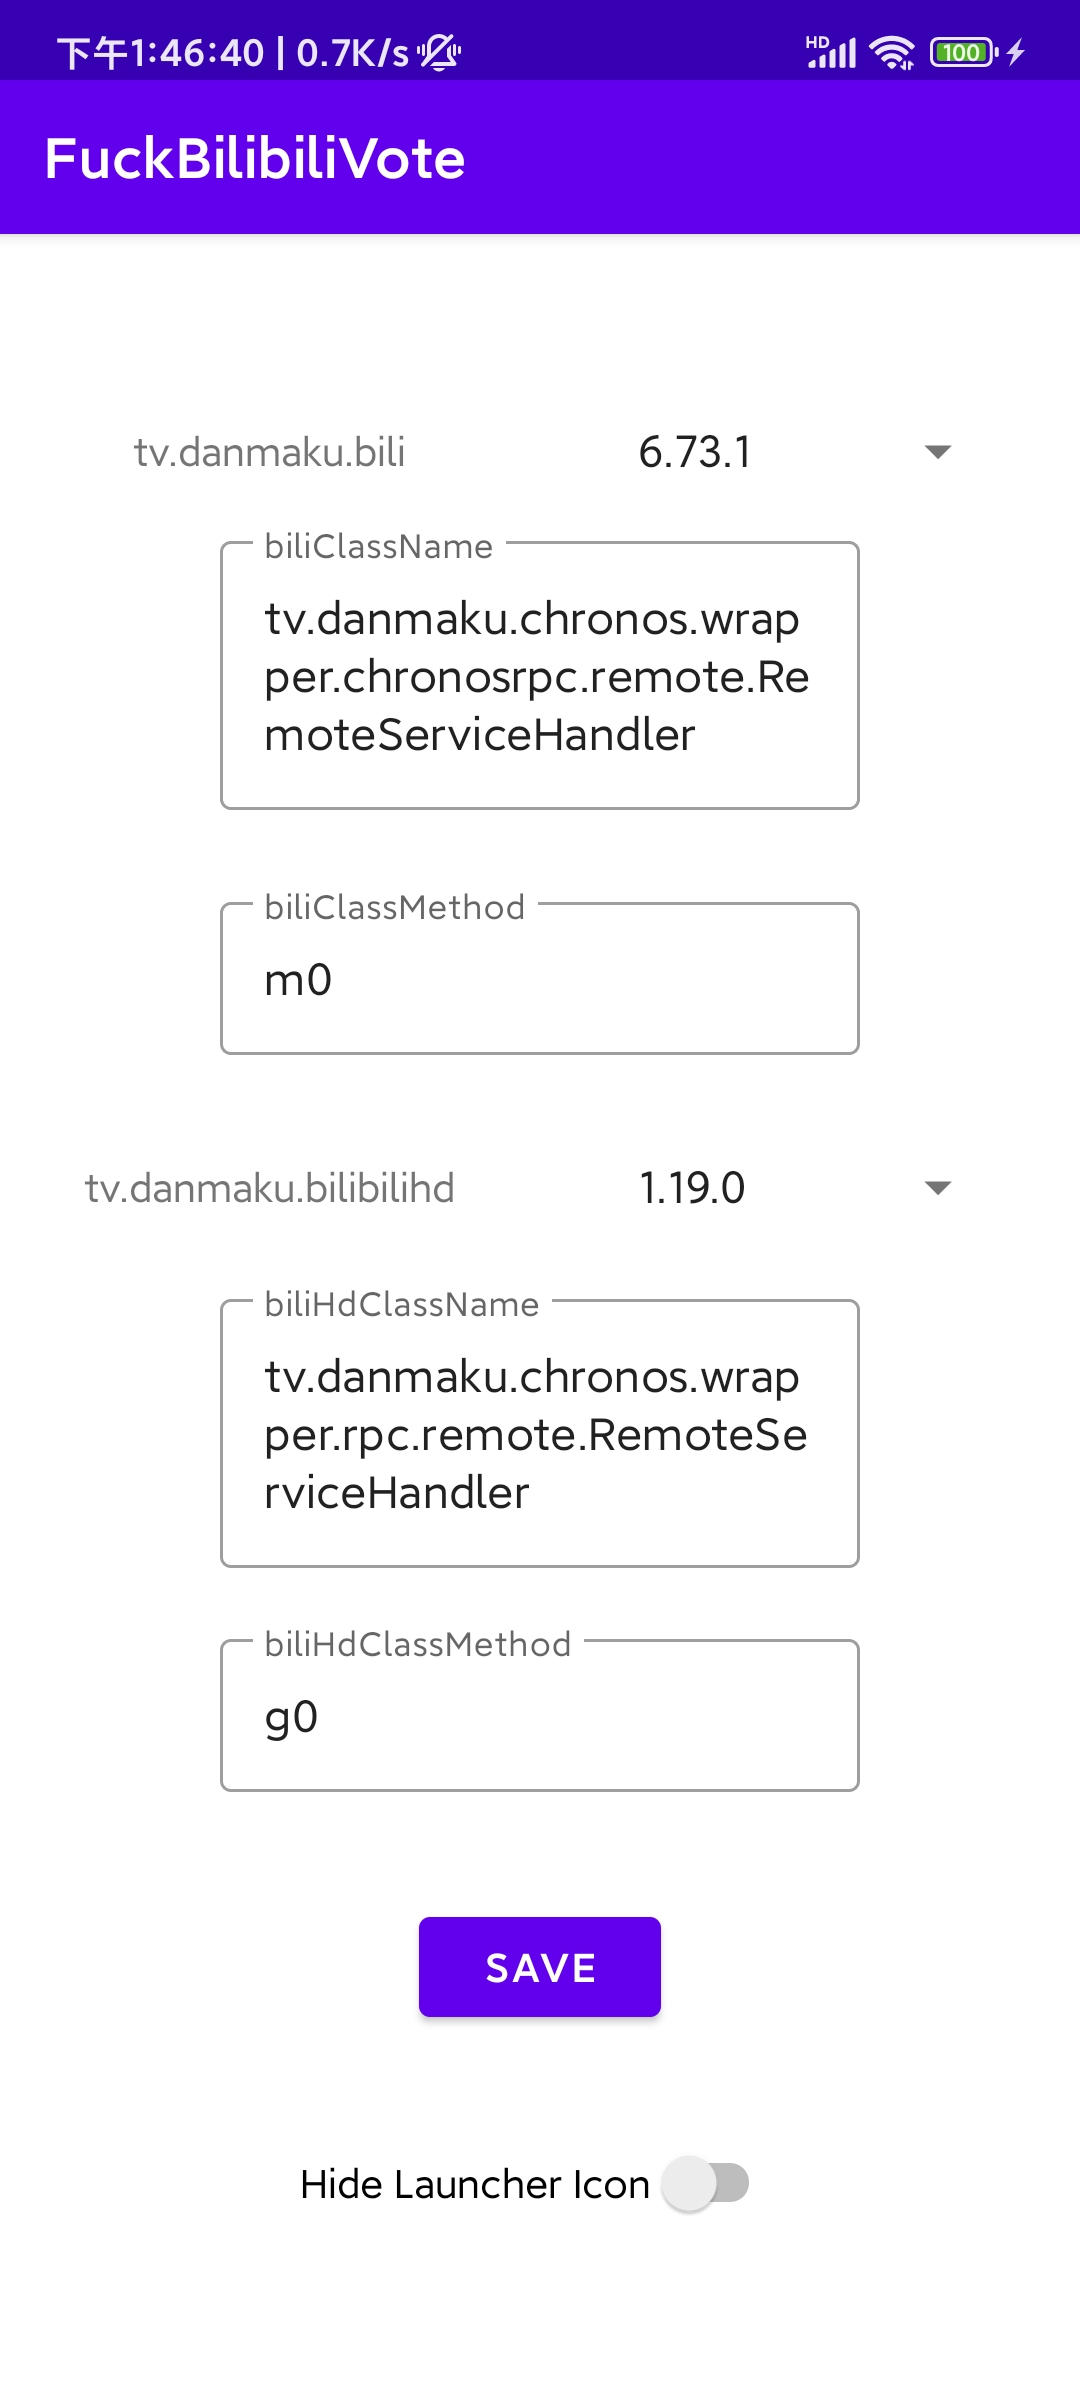
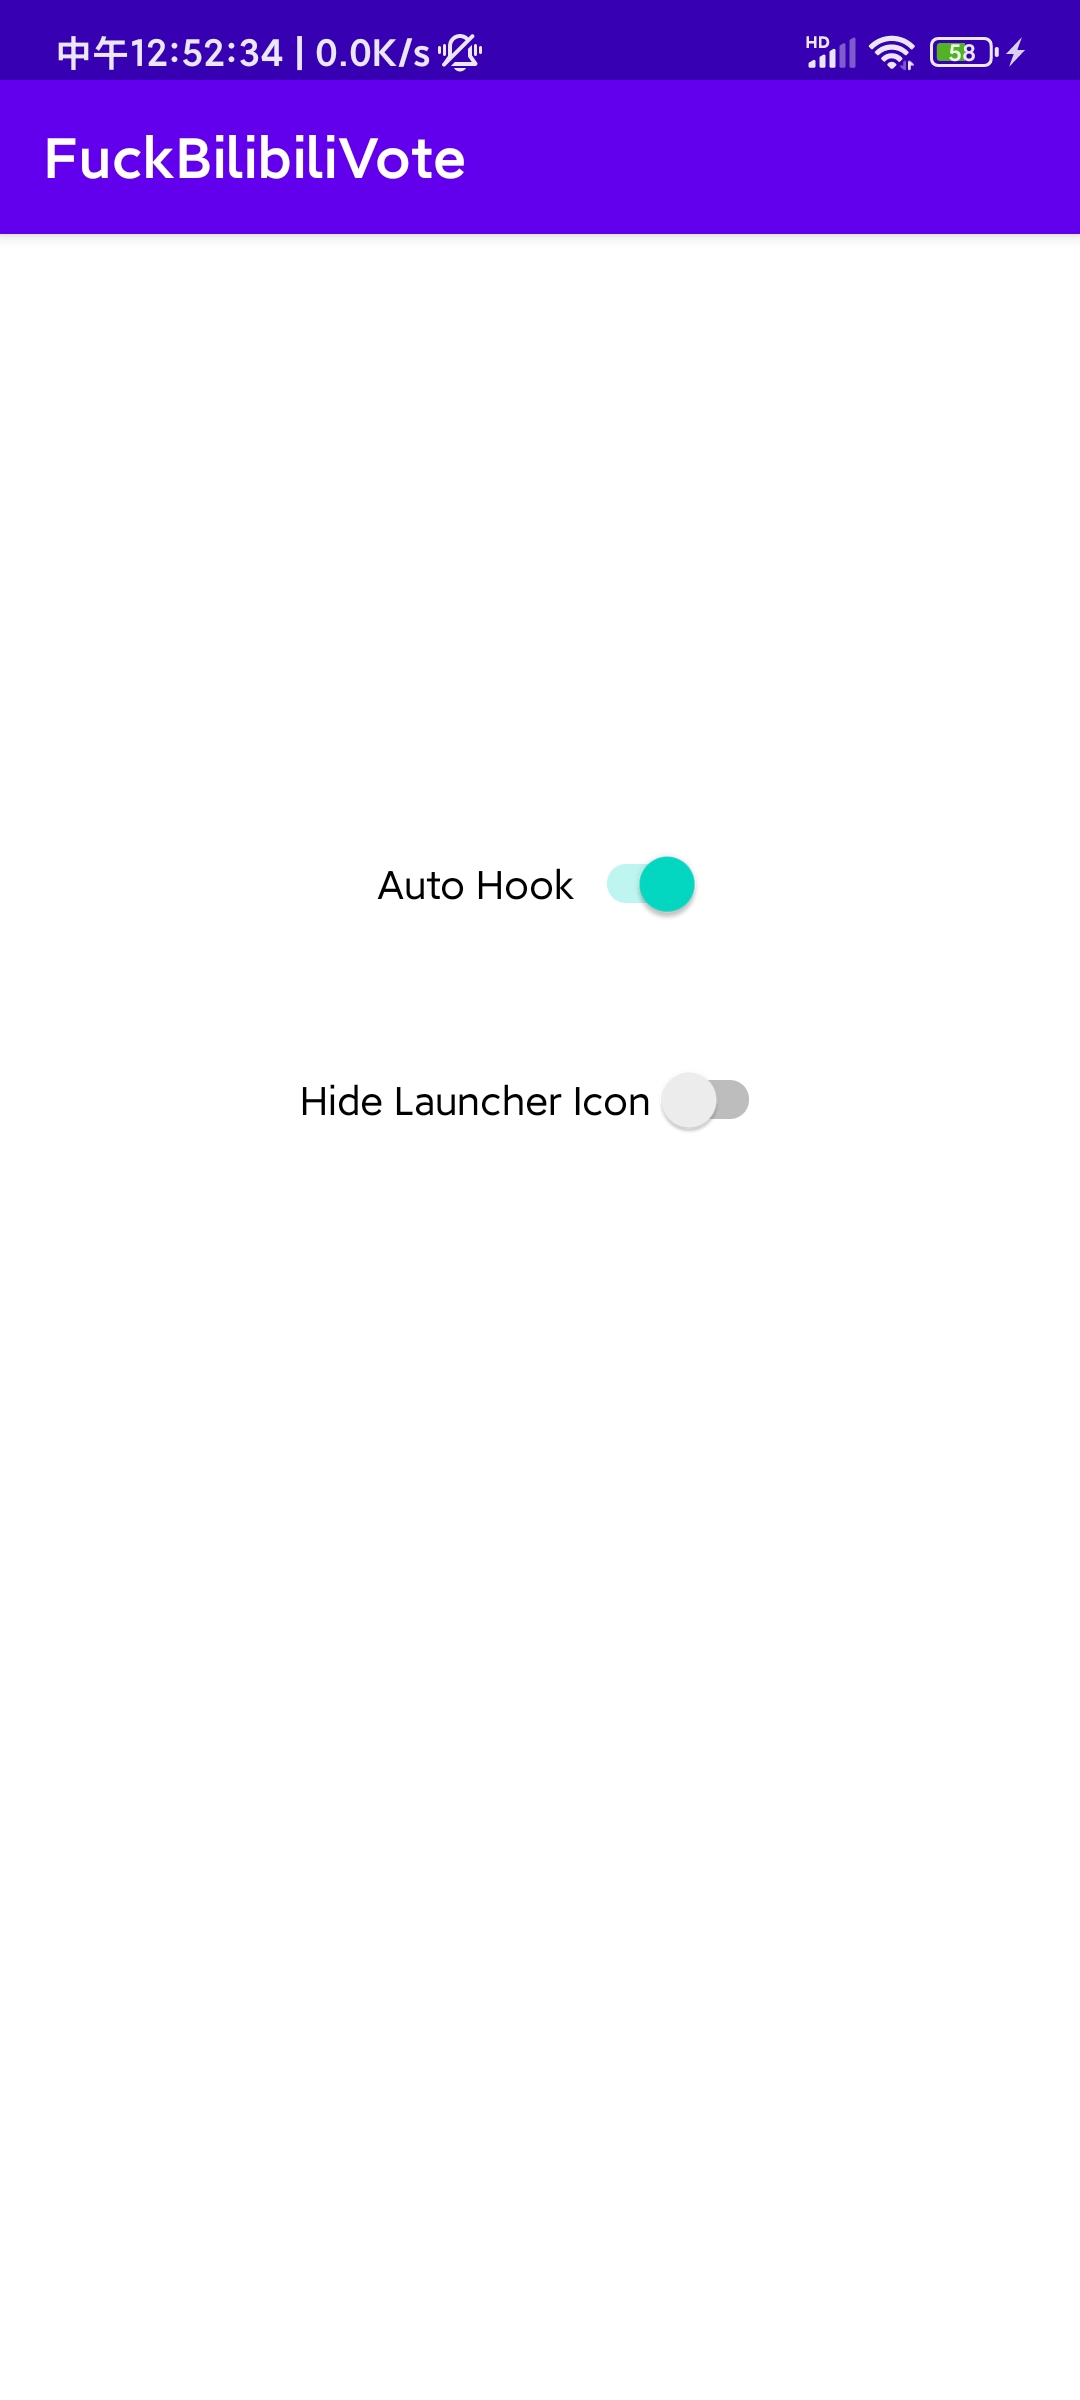
try auto hook

diff --git a/app/src/main/java/github/zerorooot/fuckbilibilivote/MainActivity.kt b/app/src/main/java/github/zerorooot/fuckbilibilivote/MainActivity.kt
@@ -42,24 +42,10 @@ class MainActivity : AppCompatActivity() {
             ).show()
             binding.saveButton.isEnabled = false
             binding.hideSwitch.isEnabled = false
+            binding.autoHookSwitch.isEnabled = false
             return
         }
 
-
-        val json = getJson()
-
-        setSpinner(
-            binding.biliVersionSpinner,
-            json.getJSONArray("biliJson"),
-            binding.biliClassName,
-            binding.biliClassMethod
-        )
-        setSpinner(
-            binding.hdVersionSpinner,
-            json.getJSONArray("hdJson"),
-            binding.biliHdClassName,
-            binding.biliHdClassMethod
-        )
 
 
         setTextViewText()
@@ -79,115 +65,34 @@ class MainActivity : AppCompatActivity() {
                 Toast.LENGTH_SHORT
             ).show()
         }
-    }
 
-
-    private fun getJson(): JSONObject {
-        val file = this.applicationContext.resources.assets.open("init.json").bufferedReader()
-            .use { it.readText() }
-        val json = JSONObject(file)
-        val string = biliSp.getString("json", "")
-        if ("" != string) {
-            val remoteJson = JSONObject(string!!)
-
-            val biliJsonArray = remoteJson.getJSONArray("biliJson")
-            for (i in 0 until biliJsonArray.length()) {
-                json.getJSONArray("biliJson").put(biliJsonArray.getJSONObject(i))
-            }
-            val hdJSONArray = remoteJson.getJSONArray("hdJson")
-            for (i in 0 until hdJSONArray.length()) {
-                json.getJSONArray("hdJson").put(hdJSONArray.getJSONObject(i))
-            }
+        biliSp.getBoolean("auto_hook", true).let {
+            binding.autoHookSwitch.isChecked = it
+            setVisibility(it)
         }
-
-        return json
+        binding.autoHookSwitch.setOnCheckedChangeListener { _, isChanged ->
+            val edit = biliSp.edit()
+            edit.putBoolean("auto_hook", isChanged)
+            edit.apply()
+            setVisibility(isChanged)
+        }
+    }
+    private fun setVisibility(isVisibility: Boolean) {
+        val visibility = if (isVisibility) View.GONE else View.VISIBLE
+        binding.biliClassName.visibility = visibility
+        binding.biliClassMethod.visibility = visibility
+        binding.saveButton.visibility = visibility
+        binding.textInputLayout.visibility = visibility
+        binding.textInputLayout2.visibility = visibility
     }
 
-    private fun httpConnect() {
-        Thread {
-            try {
-                val url =
-                    URL("https://raw.githubusercontent.com/zerorooot/FuckBilibiliVote/main/remote.json")
-                val connection = url.openConnection() as HttpURLConnection
-                connection.requestMethod = "GET"
-                connection.connectTimeout = 5000
-                connection.readTimeout = 5000
-                val inputStream = BufferedInputStream(connection.inputStream)
-                val string = inputStream.bufferedReader().use { it.readText() }
-                val editor = biliSp.edit()
-                editor.putString("json", string)
-                editor.apply()
-                Handler(Looper.getMainLooper()).post {
-                    Toast.makeText(
-                        application,
-                        "update success,please restart this app",
-                        Toast.LENGTH_SHORT
-                    ).show()
-                }
-
-            } catch (e: Exception) {
-                Handler(Looper.getMainLooper()).post {
-                    Toast.makeText(application, "download error \n${e.message.toString()}", Toast.LENGTH_LONG).show()
-                }
-            }
-        }.start()
-    }
 
     private fun setButton() {
         binding.saveButton.setOnClickListener {
             save()
             Toast.makeText(applicationContext, "save success", Toast.LENGTH_SHORT).show()
         }
-        binding.saveButton.setOnLongClickListener {
-            Toast.makeText(application, "start update config", Toast.LENGTH_SHORT).show()
-            httpConnect()
-            true
-        }
     }
-
-    private fun setSpinner(
-        spinner: Spinner,
-        jsonArray: JSONArray,
-        className: TextInputEditText,
-        classMethodName: TextInputEditText
-    ) {
-
-        val array = arrayListOf<String>()
-        array.add("customize")
-
-        for (i in 0 until jsonArray.length()) {
-            val json = jsonArray.getJSONObject(i)
-            array.add(json.getString("version"))
-        }
-
-        val adapter = ArrayAdapter(
-            this,
-            android.R.layout.simple_spinner_item,
-            array
-        )
-        adapter.setDropDownViewResource(android.R.layout.simple_spinner_dropdown_item)
-        spinner.adapter = adapter
-        spinner.onItemSelectedListener = object : AdapterView.OnItemSelectedListener {
-            override fun onNothingSelected(parent: AdapterView<*>?) {
-                TODO("not implemented") //To change body of created functions use File | Settings | File Templates.
-            }
-
-            override fun onItemSelected(
-                parent: AdapterView<*>?,
-                view: View?,
-                position: Int,
-                id: Long
-            ) {
-                try {
-                    val json = jsonArray.getJSONObject(position - 1)
-                    className.setText(json.getString("className"))
-                    classMethodName.setText(json.getString("methodName"))
-                } catch (e: Exception) {
-                }
-            }
-        }
-    }
-
 
     private fun save() {
         val edit = biliSp.edit()
@@ -198,14 +103,6 @@ class MainActivity : AppCompatActivity() {
         edit.putString(
             "bili_class_method",
             Objects.requireNonNull(binding.biliClassMethod.text).toString()
-        )
-        edit.putString(
-            "bili_hd_class_name",
-            Objects.requireNonNull(binding.biliHdClassName.text).toString()
-        )
-        edit.putString(
-            "bili_hd_class_method",
-            Objects.requireNonNull(binding.biliHdClassMethod.text).toString()
         )
         edit.apply()
     }
@@ -226,7 +123,5 @@ class MainActivity : AppCompatActivity() {
     private fun setTextViewText() {
         binding.biliClassName.setText(biliSp.getString("bili_class_name", ""))
         binding.biliClassMethod.setText(biliSp.getString("bili_class_method", ""))
-        binding.biliHdClassName.setText(biliSp.getString("bili_hd_class_name", ""))
-        binding.biliHdClassMethod.setText(biliSp.getString("bili_hd_class_method", ""))
     }
 }

diff --git a/app/src/main/java/github/zerorooot/fuckbilibilivote/Xposed.kt b/app/src/main/java/github/zerorooot/fuckbilibilivote/Xposed.kt
@@ -3,31 +3,39 @@ package github.zerorooot.fuckbilibilivote
 import de.robv.android.xposed.*
 import de.robv.android.xposed.callbacks.XC_LoadPackage.LoadPackageParam
 
-class Xposed : IXposedHookLoadPackage {
-    private val bili = "tv.danmaku.bili"
-    private val biliHd = "tv.danmaku.bilibilihd"
 
+class Xposed : IXposedHookLoadPackage {
     @Throws(Throwable::class)
     override fun handleLoadPackage(lpparam: LoadPackageParam) {
-        if (bili == lpparam.packageName) {
-            getConfigAndHook("bili_class_name", "bili_class_method", lpparam)
+        if (!lpparam.packageName.contains("bili")) {
+            return
         }
-        if (biliHd == lpparam.packageName) {
-            getConfigAndHook("bili_hd_class_name", "bili_hd_class_method", lpparam)
+        XposedBridge.log("hook ${lpparam.packageName}")
+        val xsp = XSharedPreferences(BuildConfig.APPLICATION_ID, "bili")
+        val isAutoHook = xsp.getBoolean("auto_hook", true)
+        if (isAutoHook) {
+            autoHook(lpparam)
+            return
         }
+        val className = xsp.getString("bili_class_name", "")
+        val methodName = xsp.getString("bili_class_method", "")
+        biliHook(className, methodName, lpparam)
     }
 
-    @Throws(NoSuchMethodException::class)
-    private fun getConfigAndHook(
-        classNameSp: String,
-        methodNameSp: String,
-        lpparam: LoadPackageParam
-    ) {
-        val xsp = XSharedPreferences(BuildConfig.APPLICATION_ID, "bili")
-        val className = xsp.getString(classNameSp, "")
-        val methodName = xsp.getString(methodNameSp, "")
-        XposedBridge.log("get bili class name:$className method name:$methodName")
-        biliHook(className, methodName, lpparam)
+
+    private fun autoHook(lpparam: LoadPackageParam) {
+        val viewProgressReplyClass = XposedHelpers.findClass(
+            "com.bapis.bilibili.app.view.v1.ViewProgressReply",
+            lpparam.classLoader
+        )
+        val method = viewProgressReplyClass.getDeclaredMethod("getVideoGuide")
+        method.isAccessible = true
+        XposedBridge.hookMethod(method, object : XC_MethodHook() {
+            override fun afterHookedMethod(param: MethodHookParam) {
+                XposedBridge.log("auto hook bili vote success")
+                param.result = null
+            }
+        })
     }
 
     @Throws(NoSuchMethodException::class)
@@ -45,7 +53,7 @@ class Xposed : IXposedHookLoadPackage {
         method.isAccessible = true
         XposedBridge.hookMethod(method, object : XC_MethodHook() {
             override fun beforeHookedMethod(param: MethodHookParam) {
-                XposedBridge.log("fuck bili vote " + lpparam.packageName + "  " + param.args[0].toString())
+                XposedBridge.log("hook bili vote success")
                 param.args[0] = null
             }
         })

diff --git a/README.md b/README.md
@@ -3,9 +3,6 @@ remove vote(投票) attention(一键三连) link(预告) of Bilibili
 
 download: https://github.com/zerorooot/FuckBilibiliVote/releases
 
-Note:
-
-Only tested on `tv.danmaku.bili` **6.15.1** 、**6.73.1** and `tv.danmaku.bilibilihd` **1.19.0**
 
 Test video link https://www.bilibili.com/video/BV1XY4y1Y7Jm
 
@@ -13,9 +10,6 @@ If you think this app is very helpful to you, please give me a free start, thank
 
 <img src="Screenshot/demo.jpg" width="50%">
 
-# How to update config
-
-Long click the save button
 
 # How to customize
 
@@ -62,7 +56,7 @@ method name : `m0`
 
 Enter the **class name** and **method name** into this app and **save**
 
-<img src="Screenshot/demo.jpg" width="50%">
+<img src="Screenshot/guide1.jpg" width="50%">
 
 **restart** bilibili
 
